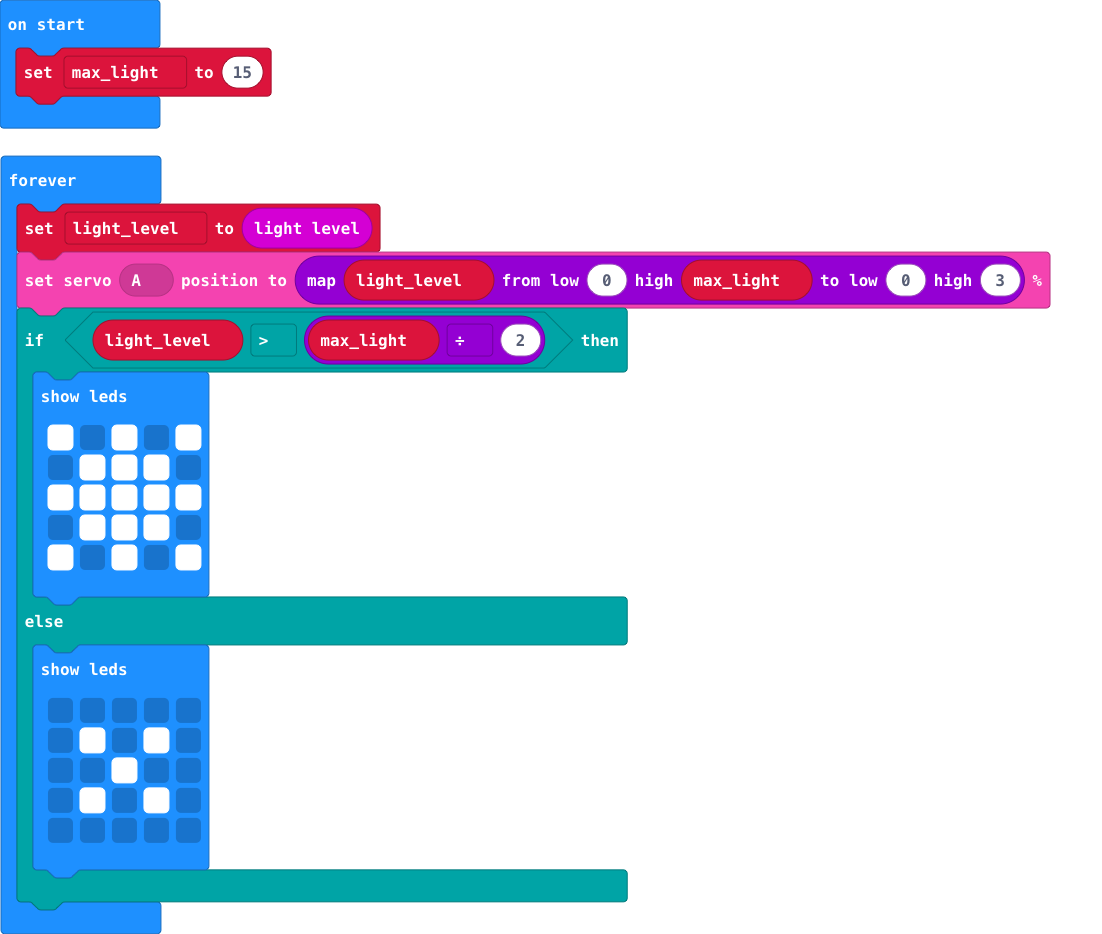
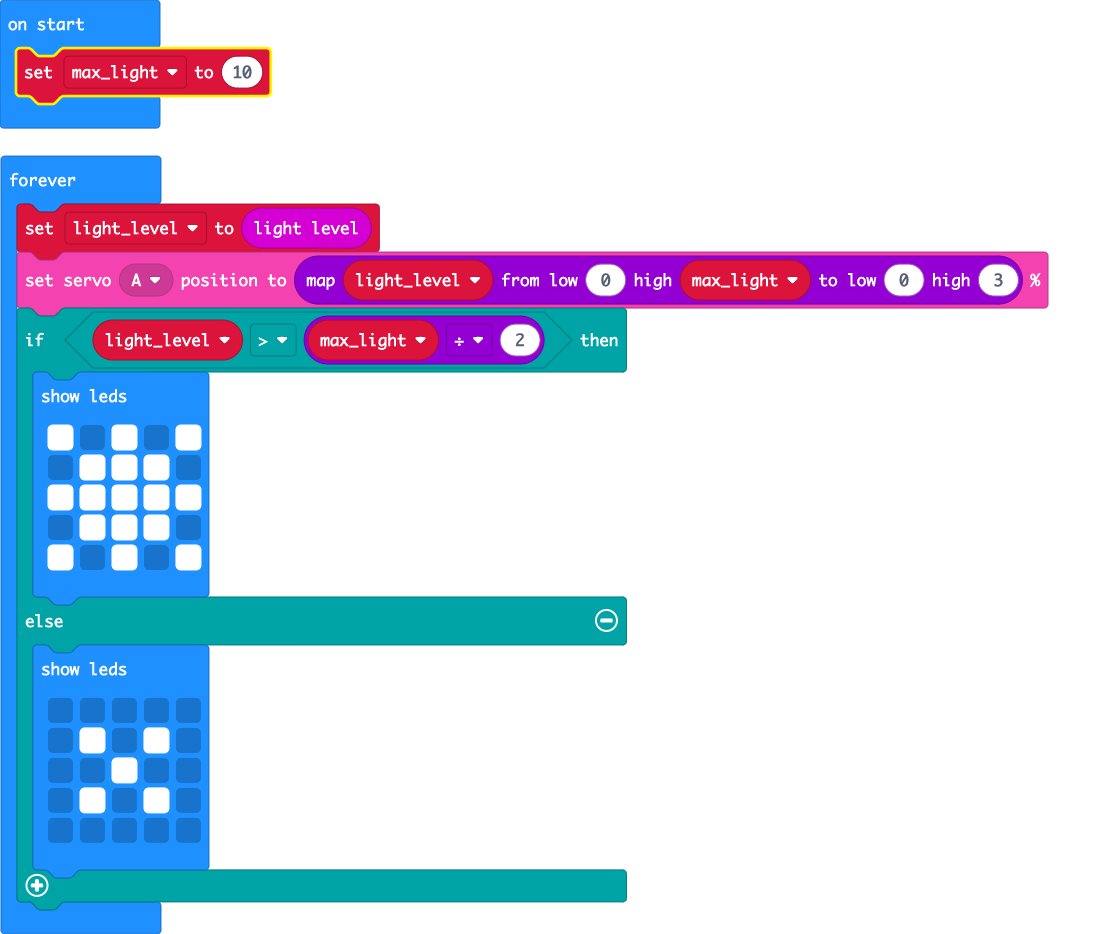
Adjusted light level

diff --git a/main.ts b/main.ts
@@ -1,5 +1,5 @@
 let light_level = 0
-let max_light = 15
+let max_light = 10
 basic.forever(function () {
     light_level = input.lightLevel()
     sb.setServoPosition(sb.servo(SBServo.ServoA), Math.map(light_level, 0, max_light, 0, 3))
